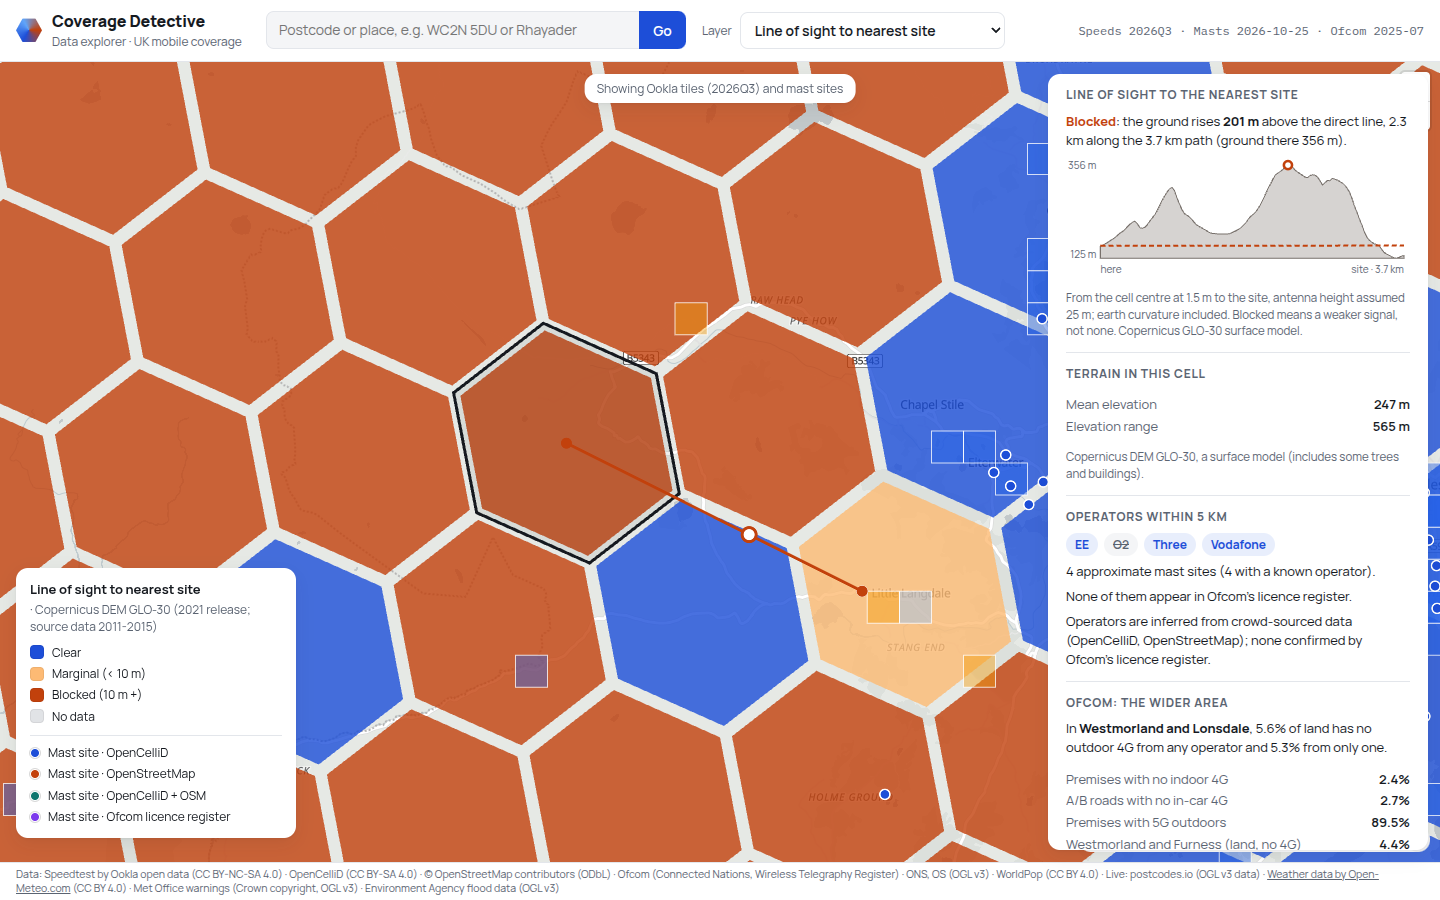
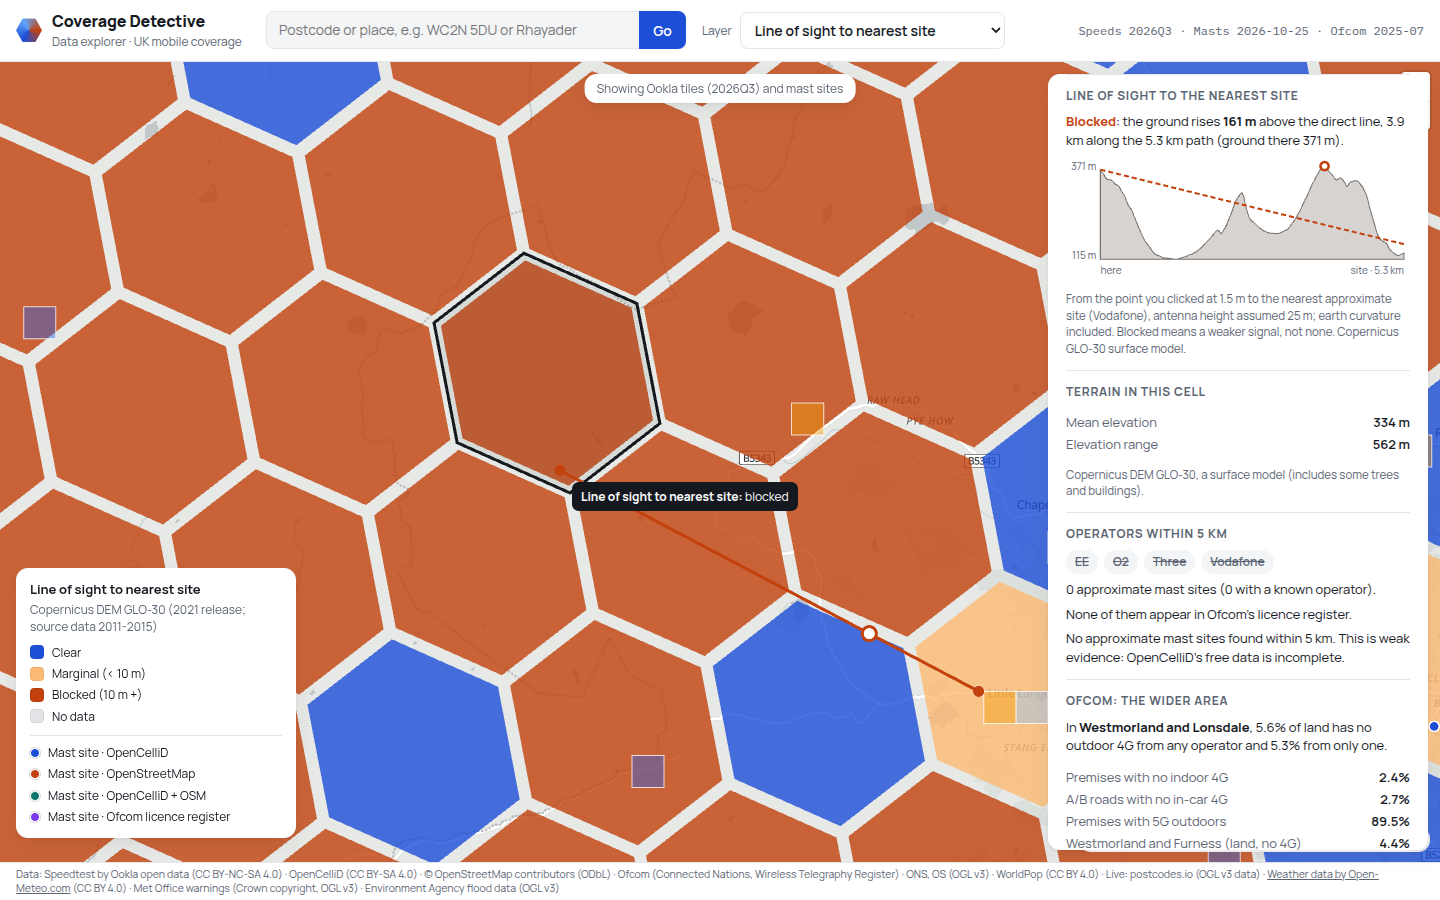
Explorer line of sight from the exact point, not the cell centre
- /api/los: site_id is optional; by default the nearest approximate site to the point.
- The cell panel computes line of sight (and "Right now") from the point clicked or
  searched; the cell centre is used only when a cell is opened by id.
- Docs: everything shown for a location uses the exact point; los_r7 stays a per-cell
  map summary.

diff --git a/web/app.js b/web/app.js
@@ -23,6 +23,7 @@ const state = {
   masts: [],
   tiles: [],
   selected: null,
+  point: null,         // the exact point clicked or searched (or the cell centre)
   los: null,           // line of sight for the selected cell (from /api/los)
 };
 
@@ -255,7 +256,7 @@ function onMapClick(info) {
   if (!info.coordinate) return;
   const [lon, lat] = info.coordinate;
   const cell = h3.latLngToCell(lat, lon, 7);
-  if (state.inGrid.has(cell)) selectCell(cell);  // ignore clicks on the sea or abroad
+  if (state.inGrid.has(cell)) selectCell(cell, { lat, lon });  // ignore clicks on the sea or abroad
 }
 
 /* ---------- side panel ---------- */
@@ -377,16 +378,17 @@ function losHTML(L) {
        ${km(L.obstruction_distance_m)} along the ${km(L.path_length_m)} path (ground there ${fmt(L.obstruction_ground_m, 0)} m).</p>`
     : `<p class="status"><strong class="good">Clear</strong>: the line passes at least ${fmt(-L.max_obstruction_m, 0)} m above the ground over ${km(L.path_length_m)}.</p>`;
   return `<h3>Line of sight to the nearest site</h3>${verdict}${profileSVG(L)}
-    <p class="footnote">From the cell centre at 1.5 m to the site, ${height}; earth curvature included.
+    <p class="footnote">From ${state.point?.exact ? (state.point.label ? esc(state.point.label) : "the point you clicked") : "the cell centre"} at 1.5 m
+    to the nearest approximate site (${esc(L.site.operators || "operator unknown")}), ${height}; earth curvature included.
     Blocked means a weaker signal, not none. Copernicus GLO-30 surface model.</p>`;
 }
 
-async function loadLos(cellId, c) {
+async function loadLos(cellId) {
   state.los = null;
-  if (!c.nearest_mast_id) { $("los").innerHTML = `<h3>Line of sight to the nearest site</h3><p class="muted">No site found.</p>`; return; }
-  const [lat, lon] = h3.cellToLatLng(cellId);
+  // From the exact point clicked or searched; the cell centre only when opened by cell id.
+  const { lat, lon } = state.point;
   try {
-    const L = await getJSON(`/api/los?lat=${lat.toFixed(5)}&lon=${lon.toFixed(5)}&site_id=${encodeURIComponent(c.nearest_mast_id)}`);
+    const L = await getJSON(`/api/los?lat=${lat.toFixed(5)}&lon=${lon.toFixed(5)}`);
     if (state.selected !== cellId) return;
     state.los = L;
     render();
@@ -452,7 +454,7 @@ function rightNowHTML(L) {
 }
 
 async function loadRightNow(cellId) {
-  const [lat, lon] = h3.cellToLatLng(cellId);
+  const { lat, lon } = state.point;
   const box = () => (state.selected === cellId ? $("right-now") : null);
   try {
     const L = await getJSON(`/api/live?lat=${lat.toFixed(5)}&lon=${lon.toFixed(5)}`);
@@ -462,16 +464,18 @@ async function loadRightNow(cellId) {
   }
 }
 
-async function selectCell(cellId) {
+async function selectCell(cellId, point = null) {
   state.selected = cellId;
   state.los = null;
+  const [clat, clon] = h3.cellToLatLng(cellId);
+  state.point = point ? { ...point, exact: true } : { lat: clat, lon: clon, exact: false };
   render();
   const panel = $("panel");
   panel.hidden = false;
   $("panel-body").innerHTML = `<p class="loading">Querying Zetaris…</p>`;
   try {
     const res = await getJSON(`/api/cell/${cellId}`);
-    if (state.selected === cellId) { $("panel-body").innerHTML = panelHTML(res); loadRightNow(cellId); loadLos(cellId, res.cell); }
+    if (state.selected === cellId) { $("panel-body").innerHTML = panelHTML(res); loadRightNow(cellId); loadLos(cellId); }
   } catch (e) {
     $("panel-body").innerHTML = `<p class="error">Could not load this cell: ${esc(e.message)}</p>`;
   }
@@ -511,7 +515,7 @@ document.addEventListener("click", (e) => { if (!$("search").contains(e.target))
 
 function flyTo(r) {
   map.flyTo({ center: [r.lon, r.lat], zoom: 11.5, speed: 1.6 });
-  selectCell(r.cell_id);
+  selectCell(r.cell_id, { lat: r.lat, lon: r.lon, label: r.label });
 }
 
 /* ---------- start ---------- */

diff --git a/coverage_detective/api/app.py b/coverage_detective/api/app.py
@@ -12,7 +12,7 @@ Routes:
   GET /api/geocode?q=          postcode or place name (postcodes.io)
   GET /api/geocode/reverse     nearest postcode to ?lat=&lon=
   GET /api/live?lat=&lon=      live context: weather, Met Office warnings, EA flood warnings
-  GET /api/los?lat=&lon=&site_id=   line of sight from a point to a mast site, with profile
+  GET /api/los?lat=&lon=(&site_id=)  line of sight from the exact point to a site (default nearest)
   POST /api/evidence           evidence bundle for {"query": postcode or place} or {"lat", "lon"}
   /                            the web app (web/)
 """
@@ -187,12 +187,17 @@ def geocode_reverse(lat: float = Query(..., ge=-90, le=90), lon: float = Query(.
 
 @app.get("/api/los")
 def los(lat: float = Query(..., ge=49, le=61.5), lon: float = Query(..., ge=-9, le=2.5),
-        site_id: str = Query(..., max_length=40)) -> dict:
+        site_id: str | None = Query(None, max_length=40, description="default: the nearest site to the point")) -> dict:
+    """Line of sight from the exact point to a site (by default the nearest approximate site)."""
     sites = mast_sites()
-    hit = sites[sites.site_id == site_id]
-    if hit.empty:
-        raise HTTPException(404, f"No site {site_id!r}")
-    s = hit.iloc[0]
+    if site_id is None:
+        s = sites.iloc[int(terrain.distance_m(lat, lon, sites.lat.to_numpy(), sites.lon.to_numpy()).argmin())]
+        site_id = s.site_id
+    else:
+        hit = sites[sites.site_id == site_id]
+        if hit.empty:
+            raise HTTPException(404, f"No site {site_id!r}")
+        s = hit.iloc[0]
     height = s.antenna_height_m if pd.notna(s.antenna_height_m) else None
     result = terrain.line_of_sight(lat, lon, float(s.lat), float(s.lon), mast_height=height)
     site = {"site_id": site_id, "lat": float(s.lat), "lon": float(s.lon), "sources": s.sources,

diff --git a/README.md b/README.md
@@ -107,9 +107,10 @@ scripts/zetaris/compose.sh up -d                        # Zetaris with our data 
 - Approximate mast sites appear from zoom 10 (coloured by source), Ookla tiles from zoom 12.
 - Click a cell: its details come from **one cross-source Zetaris query** (cells, Ookla and
   history, neighbours, masts, Ofcom area), shown under "Zetaris query used", with data dates.
-- Line of sight in the cell panel: the line from the cell centre to its nearest site is
-  drawn on the map (red if blocked, with the highest obstruction marked) above an elevation
-  profile of the path.
+- Line of sight in the cell panel is computed from the **exact point** you clicked or
+  searched (not the cell centre) to the nearest approximate site: the line is drawn on the
+  map (red if blocked, with the highest obstruction marked) above an elevation profile of
+  the path. The "Line of sight" map layer is a per-cell summary from each cell's centre.
 - "Right now" in the cell panel: live weather (with severity), Met Office warnings for the
   region and EA flood warnings within 10 km ("not covered" outside England), each with its
   source, status (live / cached / sample) and time. If everything is calm it says so.
@@ -118,7 +119,8 @@ scripts/zetaris/compose.sh up -d                        # Zetaris with our data 
 API: `GET /api/layers`, `/api/layer/{name}`, `/api/masts?bbox=`, `/api/tiles?bbox=`,
 `/api/cell/{cell_id}`, `/api/geocode?q=`, `/api/geocode/reverse?lat=&lon=`,
 `/api/live?lat=&lon=` (add `&flood_via=zetaris` for the Zetaris path),
-`/api/los?lat=&lon=&site_id=` (line of sight with profile), `/health`
+`/api/los?lat=&lon=` (line of sight from the exact point to the nearest site, or
+`&site_id=`), `/health`
 (OpenAPI docs at `/docs`).
 
 ![Line of sight, Great Langdale](docs/screenshots/great_langdale_line_of_sight.png)

diff --git a/CLAUDE.md b/CLAUDE.md
@@ -241,9 +241,12 @@ G (power cuts) dropped as future work; H (visitor load) only if time. Then the a
 - **C. Terrain** (`c3caa01`): `data/terrain.py` (bilinear DEM, ≤ 4 tiles in memory,
   `line_of_sight()` with 30 m samples, k = 4/3 curvature, antenna height from the register
   else 25 m). `CD_TERRAIN.terrain_r7` (elevation per cell from 343 r10 samples) and
-  `CD_LOS.los_r7` (cell centre → nearest site, map only; clear 29,555 / marginal < 10 m
-  10,153 / blocked 15,869 populated cells; register height for 40%). `/api/los`; map line +
-  elevation profile. Great Langdale: blocked by 288 m, 2.25 km towards the site.
+  `CD_LOS.los_r7` (cell centre → nearest site, map layer only; clear 29,555 / marginal < 10 m
+  10,153 / blocked 15,869 populated cells; register height for 40%). Everything a user or
+  agent sees for a location uses the EXACT point, never the cell centre: the evidence API
+  (to each operator's nearest site) and the explorer panel (`/api/los?lat=&lon=`, nearest
+  site to the clicked / searched point; map line + elevation profile). Great Langdale:
+  blocked by 288 m, 2.25 km towards the site.
   Mast refreshes rebuild `los_r7`.
 - **Evidence API** (`d9cbd90`): `POST /api/evidence` {query} or {lat, lon} →
   `evidence.py`: Q1 `cell_sql`, Q2 sites within 10 km of the exact point, Q3 UK context
